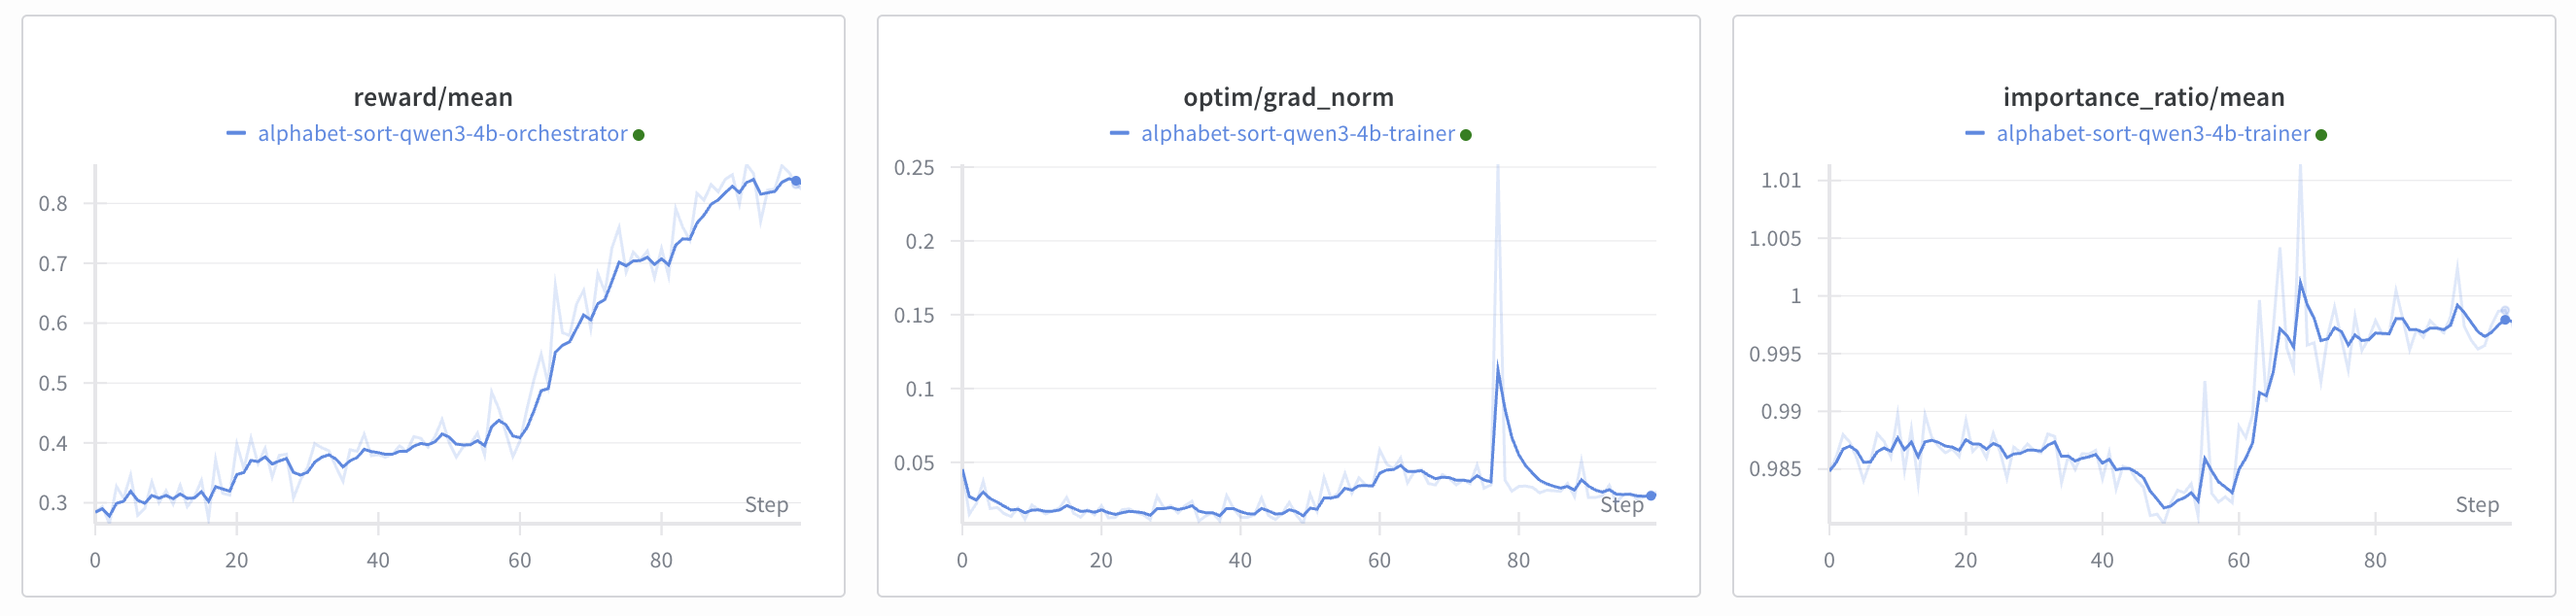
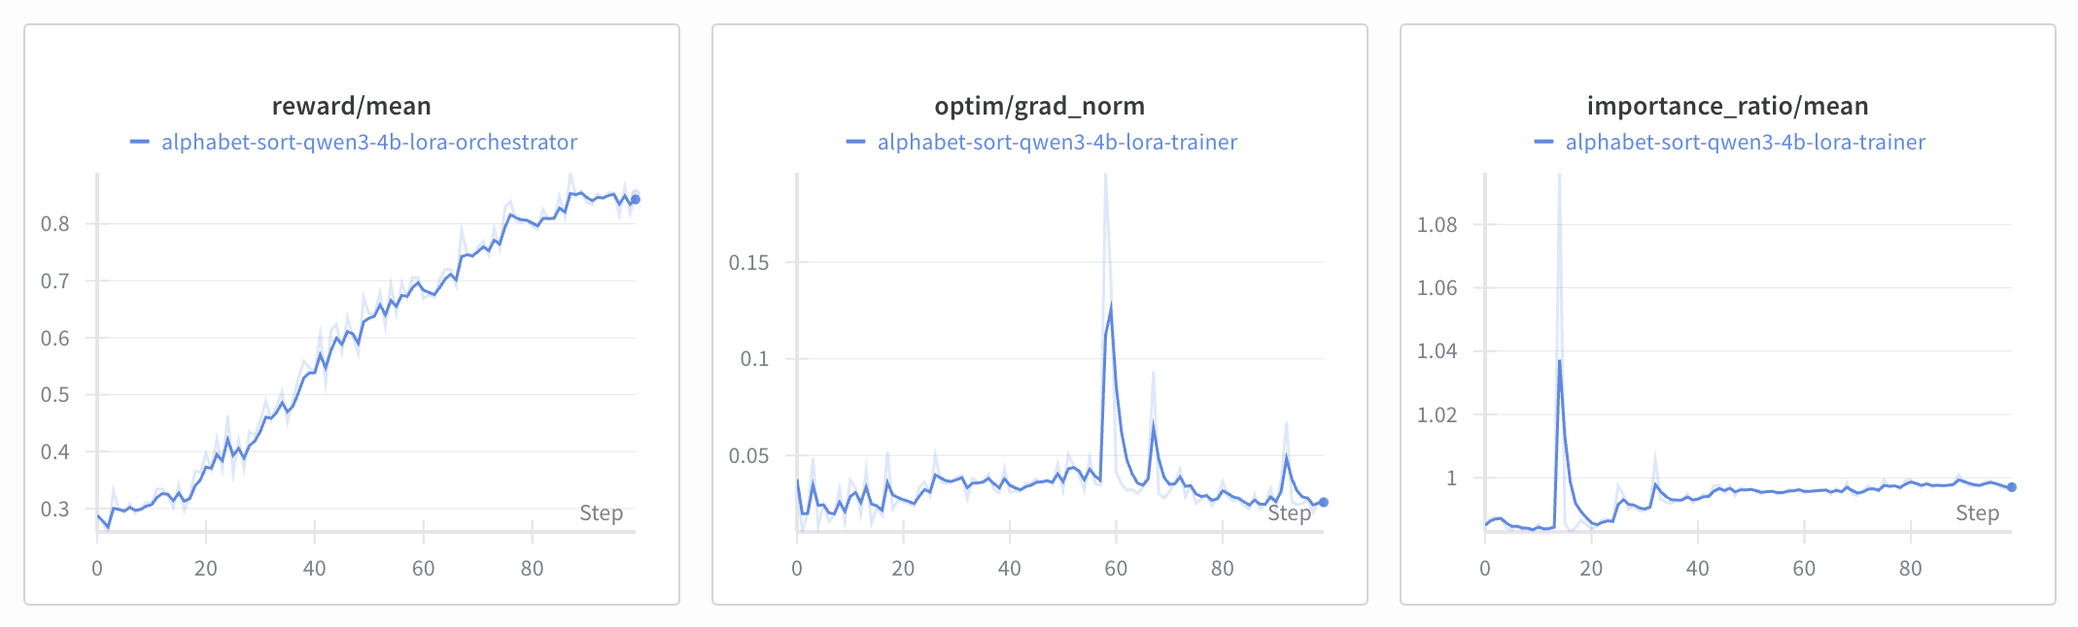
replace link with new run

diff --git a/examples/alphabet_sort/README.md b/examples/alphabet_sort/README.md
@@ -63,7 +63,7 @@ r3: [0.059, 0.264, 0.731, 0.23, 0.103, 0.014, 0.099, 0.115, 0.199, 0.037, 0.181,
 We train with LoRA (rank 32, alpha 64) for 100 steps at batch size 512 (64×8 rollouts) with context length 2048. By default, LoRA weights are merged into the base model at each checkpoint.
 
 ![RL](rl/wandb.png)
-*Check out the logs on [W&B](https://wandb.ai/primeintellect/alphabet-sort-lora/groups/alphabet-sort-extended-4b/workspace?nw=nwuserandrewpi).*
+*Check out the logs on [W&B](https://wandb.ai/primeintellect/alphabet-sort-4b-lora/overview).*
 ```bash
 # In the `Trainer` pane
 uv run rl \
